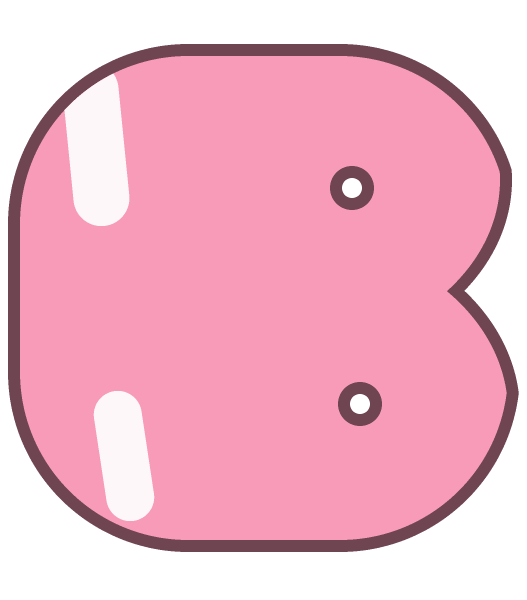
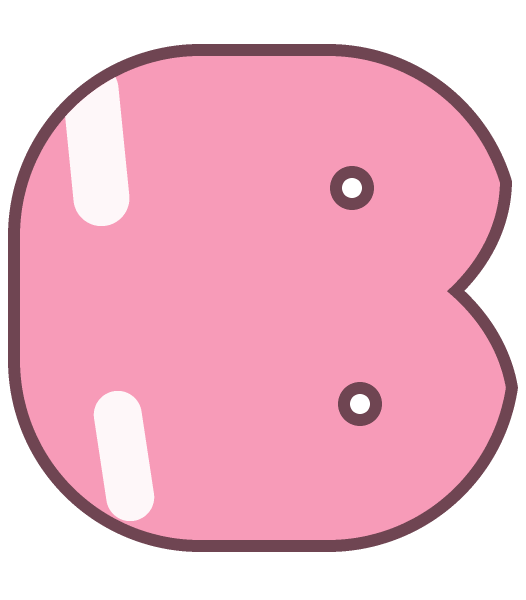
Use the supplied axe art; round B further; restyle D, P and R
Axe: the real artwork is now in the repo, found at ~/Desktop/images.png.
The 44px CSS fallback is downscaled from it, and the follower's pivot
sits at the grip on the lower shaft rather than the blade, so a click
swings the head about the hand. The procedural stand-in and its
gen:cursor script are removed, and the README notes that this asset is
supplied rather than generated — its licence needs checking before
release.

B: corner radius to 90.

D, P and R are built the same way in the reference as B — a flat-topped
block with a lobe clipped to it — but were still stroked stems carrying
domed bowls, which rounds off their tops and bottoms. They now use the
same construction.

Each needed its lobe pulled in from the clip box. A lobe that reaches the
box takes the box's own rounded right edge as its silhouette, and the
letter collapses into a rounded square: D read as a blob until its bowl
stopped short of the edge.

diff --git a/src/ui/cursor.ts b/src/ui/cursor.ts
@@ -26,11 +26,17 @@ export function reparentCursor(parent: HTMLElement | null): void {
   (parent ?? document.body).appendChild(cursorRoot);
 }
 
-/** Follower size in CSS pixels. The art is authored at 176. */
-const SIZE = 88;
-/** Grip position within the art, at that size. */
-const GRIP_X = 70;
-const GRIP_Y = 74;
+/** Follower size in CSS pixels. */
+const SIZE = 84;
+/**
+ * Where the pointer sits within the art, as a fraction of its size.
+ *
+ * The lower shaft, where a hand would hold it — not the blade. A click pivots
+ * about this point, so putting it at the grip makes the head sweep the way a
+ * real swing does.
+ */
+const GRIP_X = Math.round(SIZE * 0.3);
+const GRIP_Y = Math.round(SIZE * 0.7);
 
 export function initAxeCursor(): () => void {
   // Touch has no pointer to follow, and coarse pointers get the native cursor.

diff --git a/src/styles.css b/src/styles.css
@@ -34,7 +34,7 @@ body {
   font-family: 'Baloo 2', 'Quicksand', ui-rounded, system-ui, -apple-system, sans-serif;
   font-size: 17px;
   /* Fallback for before the animated follower mounts. Hotspot is the grip. */
-  cursor: url('/cursor-axe.png') 35 37, auto;
+  cursor: url('/cursor-axe.png') 13 31, auto;
 }
 
 /* Touch devices have no cursor, and a custom one costs a needless request. */

diff --git a/README.md b/README.md
@@ -117,6 +117,15 @@ reads as a bug.
 
 ---
 
+## Assets
+
+`public/letters/` and `public/effects/` are generated — `npm run gen:letters`,
+`npm run gen:effects`. Both are original artwork drawn procedurally, so they can
+be re-rendered at any resolution.
+
+`public/cursor-axe*.png` is supplied artwork, not generated. Check its licence
+before release and add attribution to the credits screen if required.
+
 ## Repository
 
 Branching follows a **main + dev** strategy.
